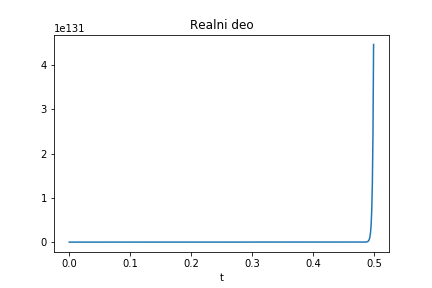
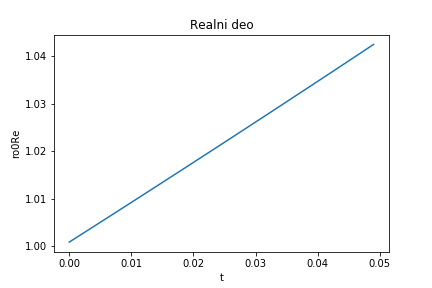
Raste zauvek eksponencijalno

diff --git a/proba.py b/proba.py
@@ -29,8 +29,8 @@ ro22 = 0.
 
 op = 0.5
 oc = 0.5
-dp = 0.1
-dc = 0.1
+dp = 0.
+dc = 0.
 I = complex(0,1)
 ro = [ro00,ro01,ro02,ro10,ro11,ro12,ro20,ro21,ro22]
 k = np.full((4,9),(complex(0,0)))
@@ -39,14 +39,14 @@ f1 = Gamma01*ro[4] + Gamma02*ro[8] - 1.0*I*(0.5*op*ro[2] - 0.5*op*ro[6])
 f2 = -gamma01*ro[1] - 1.0*I*(0.5*oc*ro[2] - 0.5*op*ro[7] - ro[1]*(dc - dp))
 f3 = -gamma02*ro[2] - 1.0*I*(dp*ro[2] + 0.5*oc*ro[1] + 0.5*op*ro[0] - 0.5*op*ro[8])
 f4 = -gamma10*ro[3] - 1.0*I*(-0.5*oc*ro[6] + 0.5*op*ro[5] + ro[3]*(dc - dp))
-f5 = -Gamma01*ro[4] + Gamma12*ro[8] - 1.0*I*(0.5*oc*ro[5] - 0.5*oc*ro[7])
+f5 = 1 - ro[0] - ro[8]
 f6 = -gamma12*ro[5] - 1.0*I*(dp*ro[5] + 0.5*oc*ro[4] - 0.5*oc*ro[8] + 0.5*op*ro[3] + ro[5]*(dc - dp))
 f7 = -gamma20*ro[6] - 1.0*I*(-dp*ro[6] - 0.5*oc*ro[3] - 0.5*op*ro[0] + 0.5*op*ro[8])
 f8 = -gamma21*ro[7] - 1.0*I*(-dp*ro[7] - 0.5*oc*ro[4] + 0.5*oc*ro[8] - 0.5*op*ro[1] - ro[7]*(dc - dp))
 f9 = -Gamma02*ro[8] - Gamma12*ro[8] - 1.0*I*(-0.5*oc*ro[5] + 0.5*oc*ro[7] - 0.5*op*ro[2] + 0.5*op*ro[6])
 c= []
 t = 0.
-brojPonavljanja = 500
+brojPonavljanja = 50
 h = 0.001
 matricaGustineIm = np.zeros((9,brojPonavljanja))
 matricaGustineRe = np.zeros((9,brojPonavljanja))
@@ -54,8 +54,12 @@ for x in range(brojPonavljanja):
     F = [f1,f2,f3,f4,f5,f6,f7,f8,f9]
     for j in range(4):
         for i in range(9):
-            k[j][i] = F[i]
-            F[i] = ro[i]+h*k[j][i]/2
+            if(j!=3):
+                k[j][i] = h*F[i]
+                F[i] = ro[i]+k[j][i]/2
+            else:
+                k[j][i] = h*F[i]
+                F[i] = ro[i]+k[j][i]
     for i in range(9):
         ro[i] += (1/6)*(k[0][i]+2*k[1][i]+2*k[2][i]+k[3][i])
     for i in range(9):    
@@ -71,6 +75,7 @@ for i in range(9):
     plt.title("Realni deo")
     plt.xlabel("t")
     b = 'ro'+str(i)+'Re'
+    plt.ylabel(b)
     plt.savefig(b)
     plt.show()
 for i in range(9):
